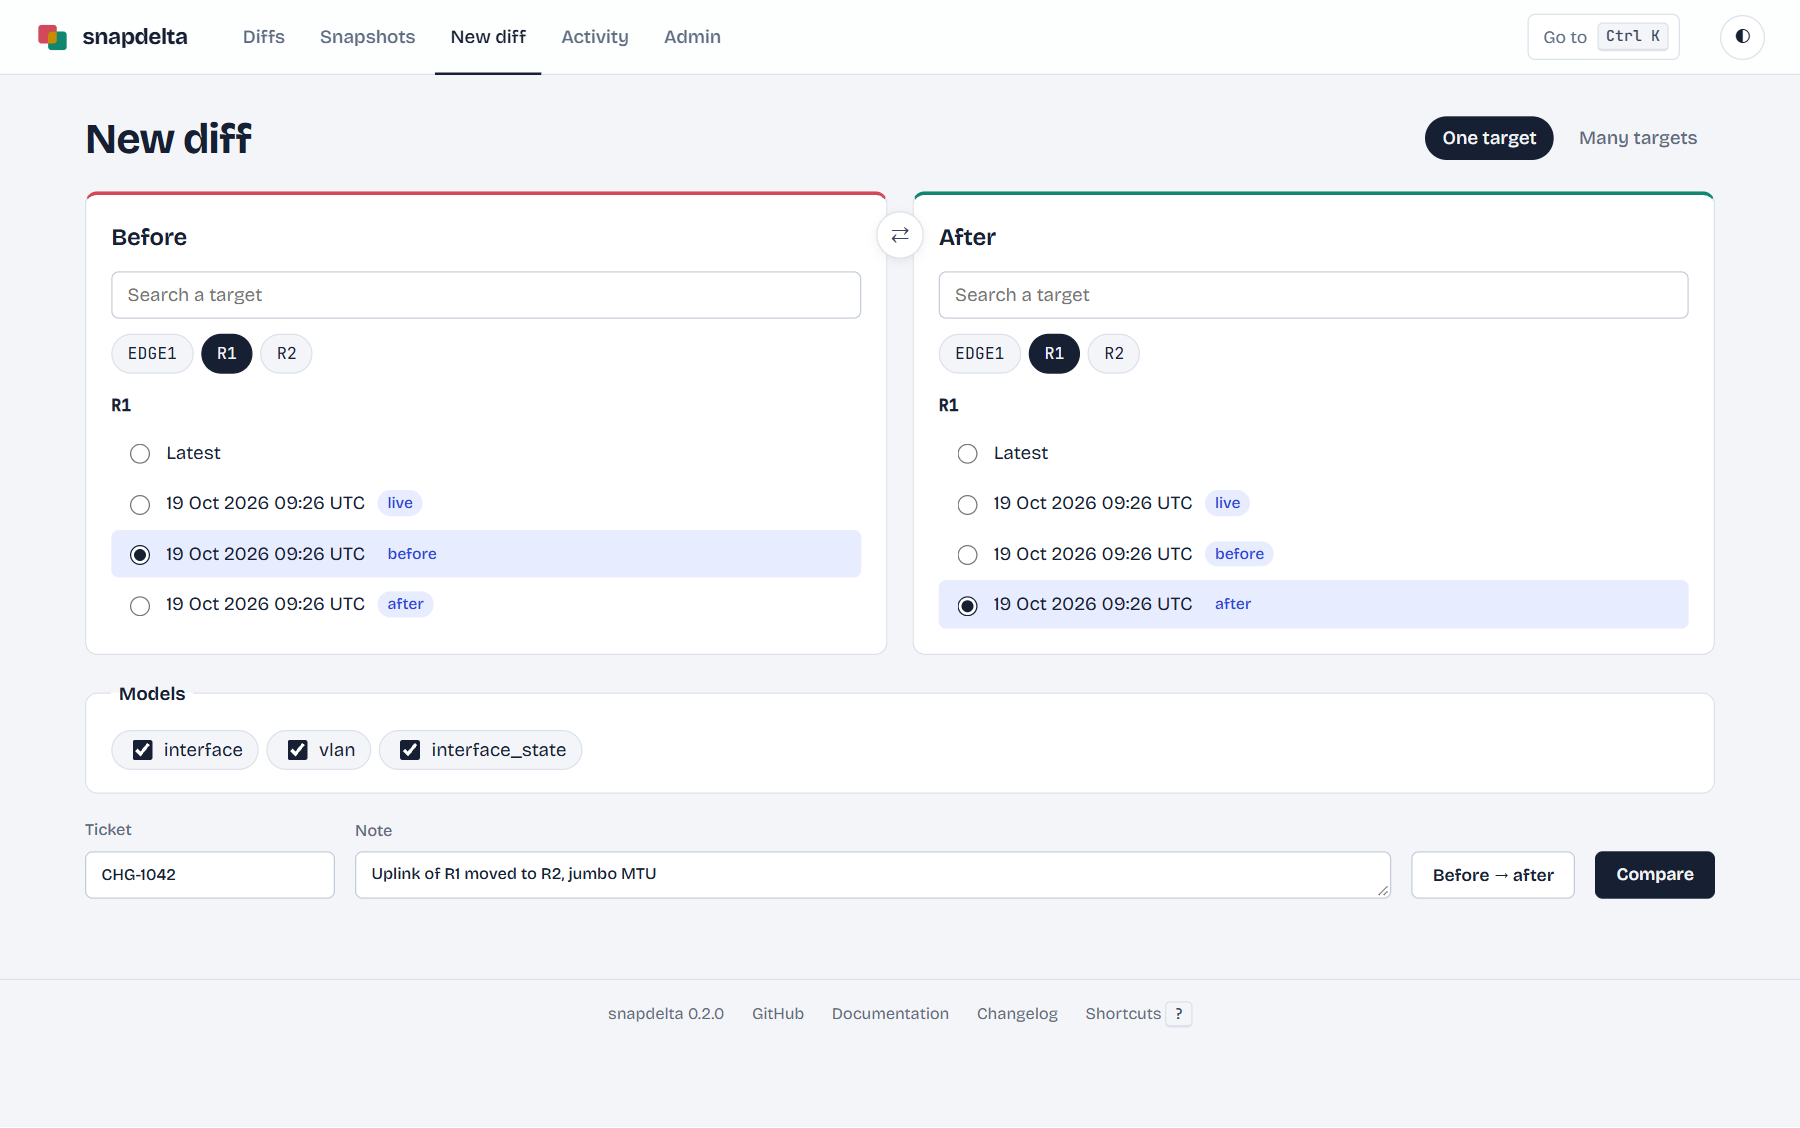
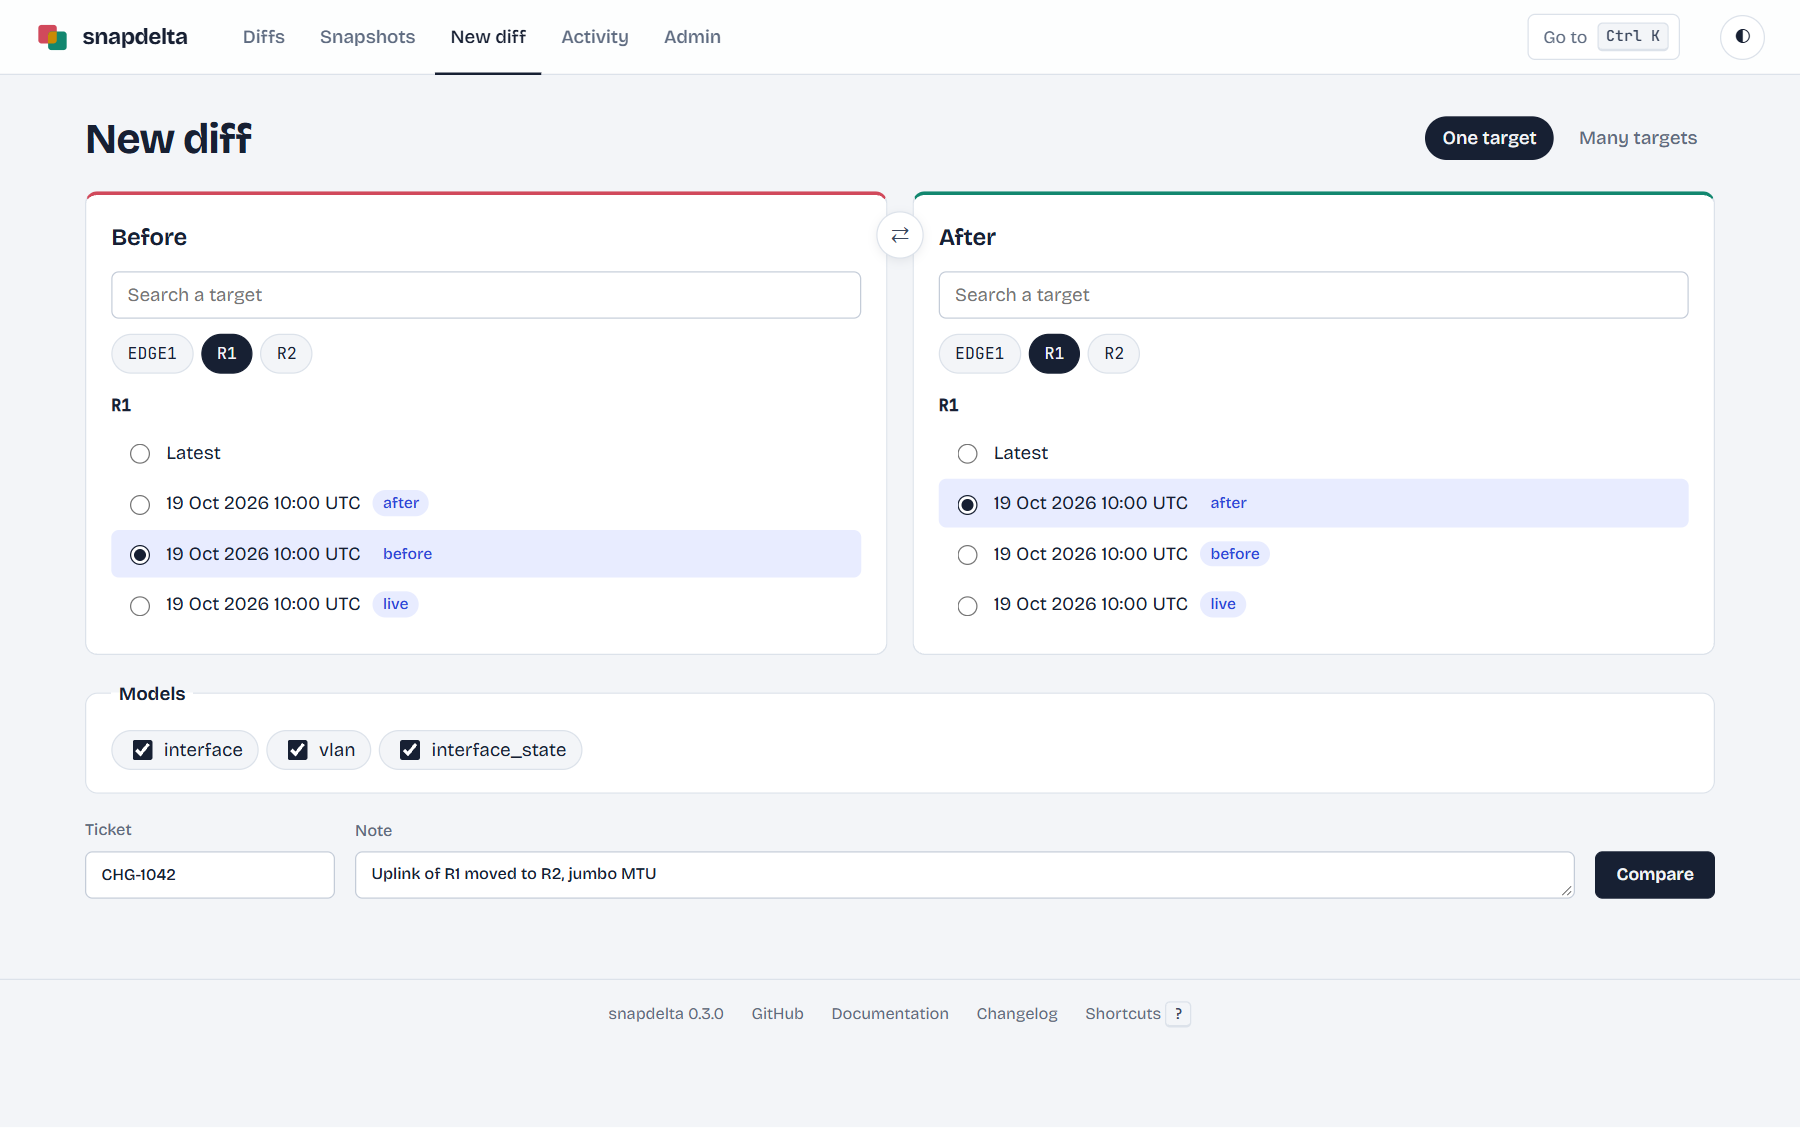
feat(web): remove the before and after button of the new diff form

diff --git a/packages/snapdelta-web/src/snapdelta_web/static/app.js b/packages/snapdelta-web/src/snapdelta_web/static/app.js
@@ -149,19 +149,8 @@
   document.addEventListener("click", function (event) {
     var form = document.querySelector("form.new-diff");
     if (!form) return;
-    if (event.target.closest("[data-swap-sides]")) {
-      reloadNewDiff(form, sideValue(form, "right"), sideValue(form, "left"));
-      return;
-    }
-    var preset = event.target.closest("[data-preset-labels]");
-    if (!preset) return;
-    var target = (sideValue(form, "left") || sideValue(form, "right")).split(/[@/]/)[0];
-    if (!target) {
-      form.querySelector('input[type="search"]').focus();
-      return;
-    }
-    var labels = preset.dataset.presetLabels.split(" ");
-    reloadNewDiff(form, target + "@" + labels[0], target + "@" + labels[1]);
+    if (!event.target.closest("[data-swap-sides]")) return;
+    reloadNewDiff(form, sideValue(form, "right"), sideValue(form, "left"));
   });
 
   // The After side follows the target of the Before side, until the user picks another target for it.

diff --git a/packages/snapdelta-web/src/snapdelta_web/templates/new.html b/packages/snapdelta-web/src/snapdelta_web/templates/new.html
@@ -67,7 +67,6 @@
   <div class="form-foot">
     {{ describe_fields() }}
     {{ profile_field() }}
-    <button type="button" class="button" data-preset-labels="before after" title="The newest snapshots labelled before and after of the target of the Before side">Before → after</button>
     <button type="submit" class="button primary" data-busy="Comparing…">Compare</button>
   </div>
 </form>

diff --git a/packages/snapdelta-web/tests/test_app.py b/packages/snapdelta-web/tests/test_app.py
@@ -749,7 +749,7 @@ def test_new_diff_keeps_the_ticket_and_tells_a_missing_label(client, ticketed) -
     assert 'value="R1/20260926T100000Z-before" checked' in page and 'value="R1@latest" checked' in page
     assert "No snapshot of R1 is labelled nope in the ticket CHG-1: the newest snapshot is selected." in page
     assert 'value="CHG-1"' in page and ">Uplink</textarea>" in page
-    assert "data-swap-sides" in page and 'data-preset-labels="before after"' in page
+    assert "data-swap-sides" in page and "data-preset-labels" not in page
 
 
 def test_the_diffs_list_shows_the_ticket_column(client, names, store) -> None:

diff --git a/docs/web-ui.md b/docs/web-ui.md
@@ -51,7 +51,7 @@ The metadata of the load (time, models, inputs, warnings), then one table per mo
 
 A switch at the top gives **One target** (the default) or **Many targets**.
 
-**One target**: choose a target, then a snapshot, for **Before** and **After**; with an inventory, a group list filters the targets. The After side takes the target of the Before side until you choose another one for it. Then the models in common, a ticket, a note and a profile. **⇄** between the two sides swaps them; **Before → after** selects the newest snapshots labelled `before` and `after` of the target of the Before side.
+**One target**: choose a target, then a snapshot, for **Before** and **After**; with an inventory, a group list filters the targets. The After side takes the target of the Before side until you choose another one for it. Then the models in common, a ticket, a note and a profile. **⇄** between the two sides swaps them.
 
 **Many targets** compares `TARGET@BEFORE` with `TARGET@AFTER` for each host of a group (the page lists its hosts), or for each target of the store that has a Before snapshot; **Now** on the After side takes it from the targets, at the same time. It has the same ticket, note and profile as One target, and gives them to each diff; with a ticket, the labels of Before and After name the snapshots of that ticket only. The page that follows lists each target as changed, unchanged or failed, with the link of its diff.
 

diff --git a/lab/example/README.md b/lab/example/README.md
@@ -241,7 +241,7 @@ All the commands run in `lab/example`, so snapdelta reads the settings file of t
 
 4. **Take snapshot** again, with **All targets**, the label `after` and the ticket `CHG-1042`.
 
-5. **New diff**: pick `r1` on the left, then **Before → after** selects its `before` and `after` snapshots. Give the ticket `CHG-1042` and a note, then **Compare**.
+5. **New diff**: pick `r1` and its `before` snapshot on the left, then its `after` snapshot on the right. Give the ticket `CHG-1042` and a note, then **Compare**.
 
 6. The diff page: the two sides, the delta strip, the chips and the search that filter the objects, the change map at the right edge, and **Accept** on each change. `?` lists the keyboard shortcuts; see [docs/web-ui.md](../../docs/web-ui.md).
 

diff --git a/CHANGELOG.md b/CHANGELOG.md
@@ -24,6 +24,7 @@
 ### Removed
 
 - The grouping of the diff list by the start of the text before `: `; filter by ticket instead.
+- The **Before → after** button of **New diff**, which only knew the labels `before` and `after`; pick the two snapshots in the lists.
 
 ## v0.2.0
 
